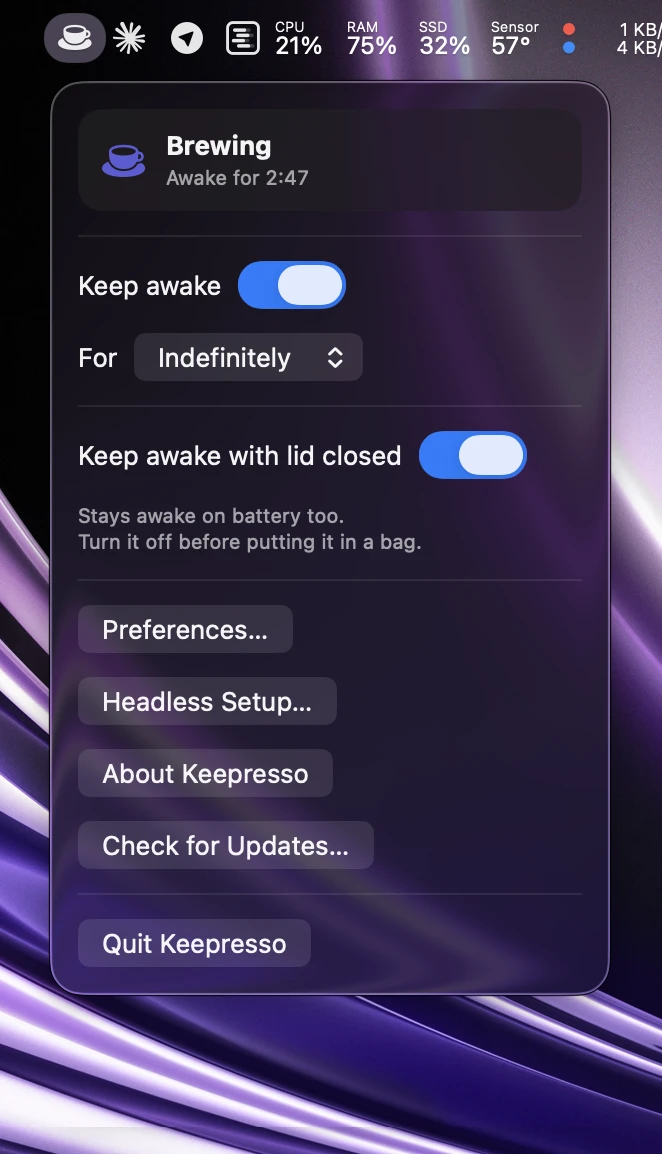
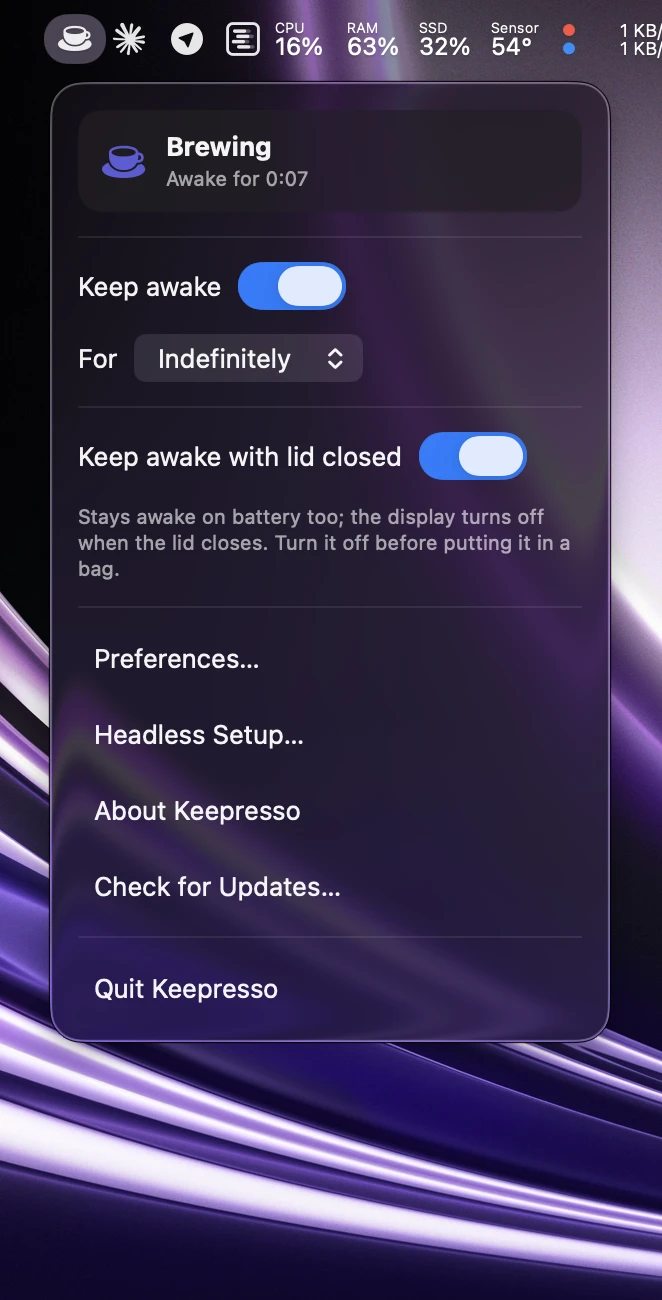
Refresh docs screenshots, bump Cask to v1.2.0
Casks/keepresso.rb was left pointing at 1.1.1 after the v1.2.0 release;
sync it to match the published DMG's sha256.

diff --git a/Casks/keepresso.rb b/Casks/keepresso.rb
@@ -10,8 +10,8 @@
 #   (shasum -a 256 dist/Keepresso-<version>.dmg), then commit to the tap.
 # The `livecheck` block lets `brew livecheck` notice new GitHub releases.
 cask "keepresso" do
-  version "1.1.1"
[1 lines of base64/hex data omitted]
+  version "1.2.0"
[1 lines of base64/hex data omitted]
 
   url "https://github.com/gyorgysh/keepresso/releases/download/v#{version}/Keepresso-#{version}.dmg"
   name "Keepresso"
